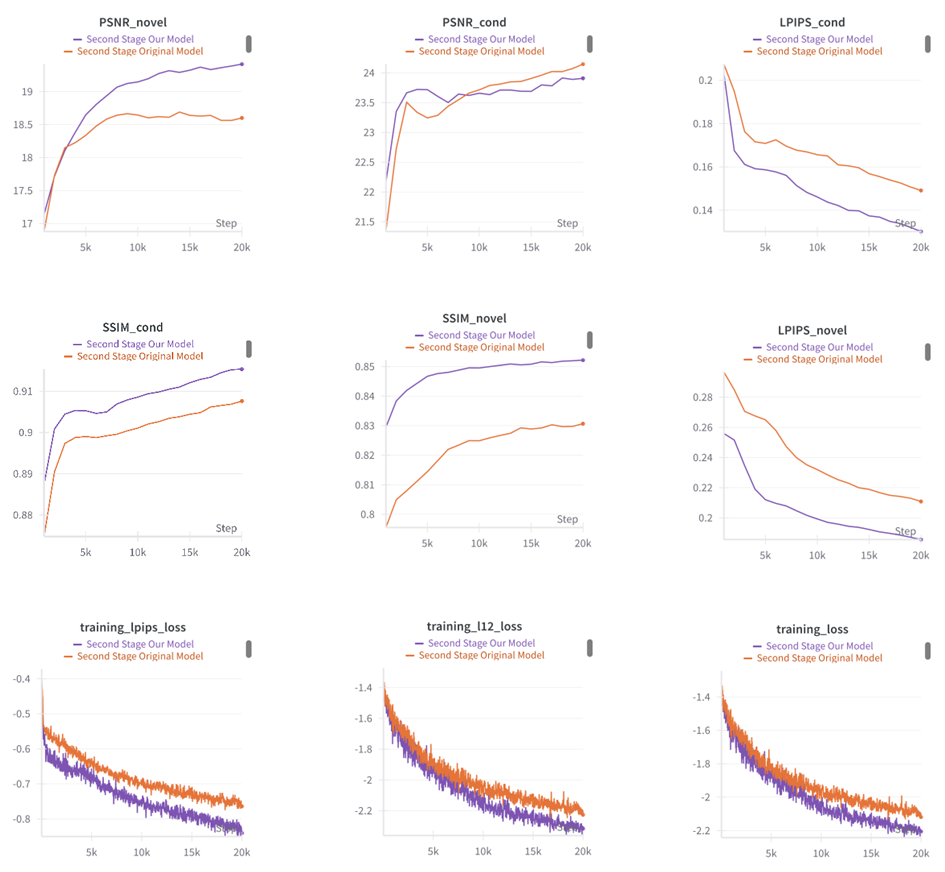
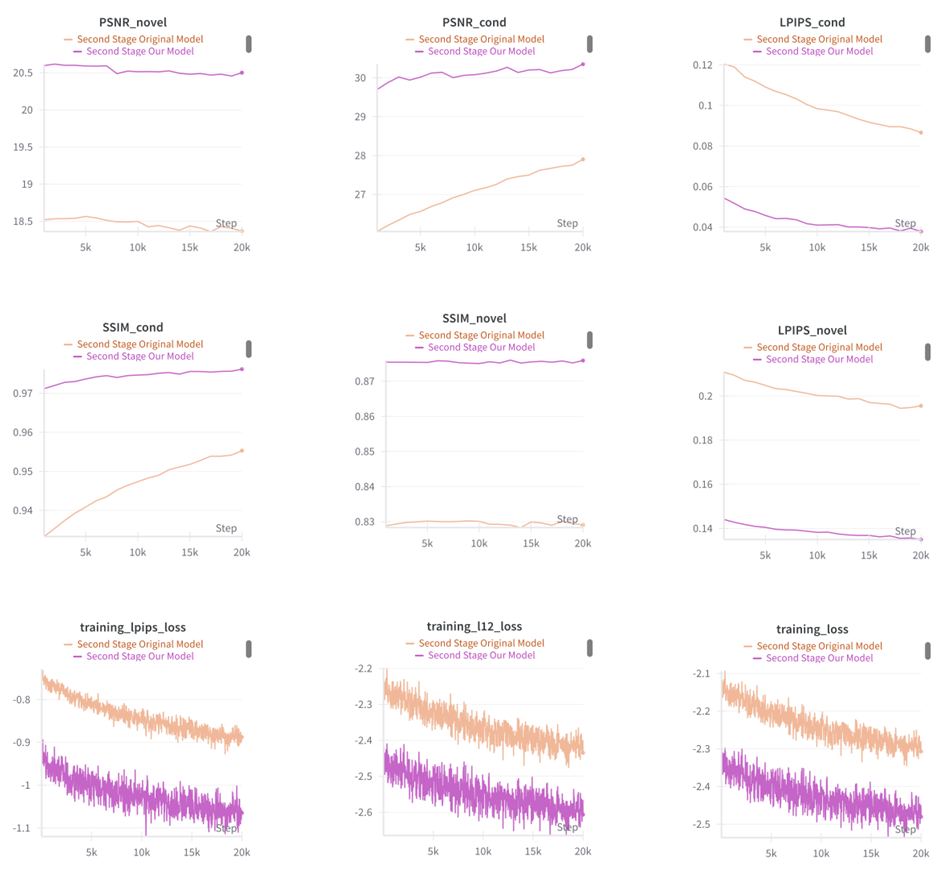
* Fixed results and README file.

diff --git a/README.MD b/README.MD
@@ -39,6 +39,8 @@ In parallel, we also trained the original network on the same data but without t
   <em>Stage one results: Performance metrics comparing our model (purple) with the original model (orange) across different evaluation metrics</em>
 </p>
 
+<p align="center">
+  
 | Metric         | Original Model | Our Model | Improvement |
 |----------------|----------------|-----------|-------------|
 | LPIPS_cond     | 0.1284         | 0.0699    | 45.56%      |
@@ -49,13 +51,16 @@ In parallel, we also trained the original network on the same data but without t
 | SSIM_novel     | 0.8285         | 0.8756    | 5.68%       |
 | Training Loss  | -2.2634        | -2.4195   | 6.89%       |
 
-
+</p>
 
 <p align="center">
   <img src="results/graphs_second_stage.png" alt="Stage two results">
   <br>
-  <em>Stage two results: Performance metrics comparing our model (purple) with the original model (orange) across different evaluation metrics</em>
+  <em>
+    Stage two results: Performance metrics comparing our model (purple) with the original model (orange) across different evaluation metrics</em>
 </p>
+
+<p align="center">  
 
 | Metric               | Original Model | Our Model | Improvement |
 |----------------------|----------------|-----------|-------------|
@@ -69,11 +74,12 @@ In parallel, we also trained the original network on the same data but without t
 | Training L12 Loss    | -2.4185        | -2.5913   | 7.14%       |
 | Training LPIPS Loss  | -0.8640        | -1.0346   | 19.75%      |
 
+</p>
 
 ### Analysis
 As we can see, our model consistently outperforms the original in all the key areas we measured. The results show clear improvements in image quality, with higher PSNR values, especially when generating images based on specific conditions. The lower LPIPS scores indicate that the images our model generates are perceptually closer to the actual ground truth, and the higher SSIM scores suggest that our model preserves structural details more effectively. 
 
-It's worth noting that in the PSNR_cond graph, we observe slightly lower values for our model in the second stage. This is actually an expected outcome, as our model is constrained by depth map information, forcing it to emphasize and account for the 3D structure of objects. While this might result in slightly lower PSNR values, it ultimately leads to more structurally accurate and realistic 3D-aware representations. 
+We can observe that both our model and the original model show slightly lower values in the PSNR_cond graph. This is because, in the second stage, we continue training with an additional loss that corresponds to enhancing the 3D-realistic representation, which slightly lowers PSNR values but improves the structural accuracy of the model.
 
 The training loss graph shows that our model trains more efficiently and stays more stable, keeping loss values lower throughout. These combined improvements across various metrics suggest that our model is significantly better at both conditional and novel image generation compared to the original baseline.
 
